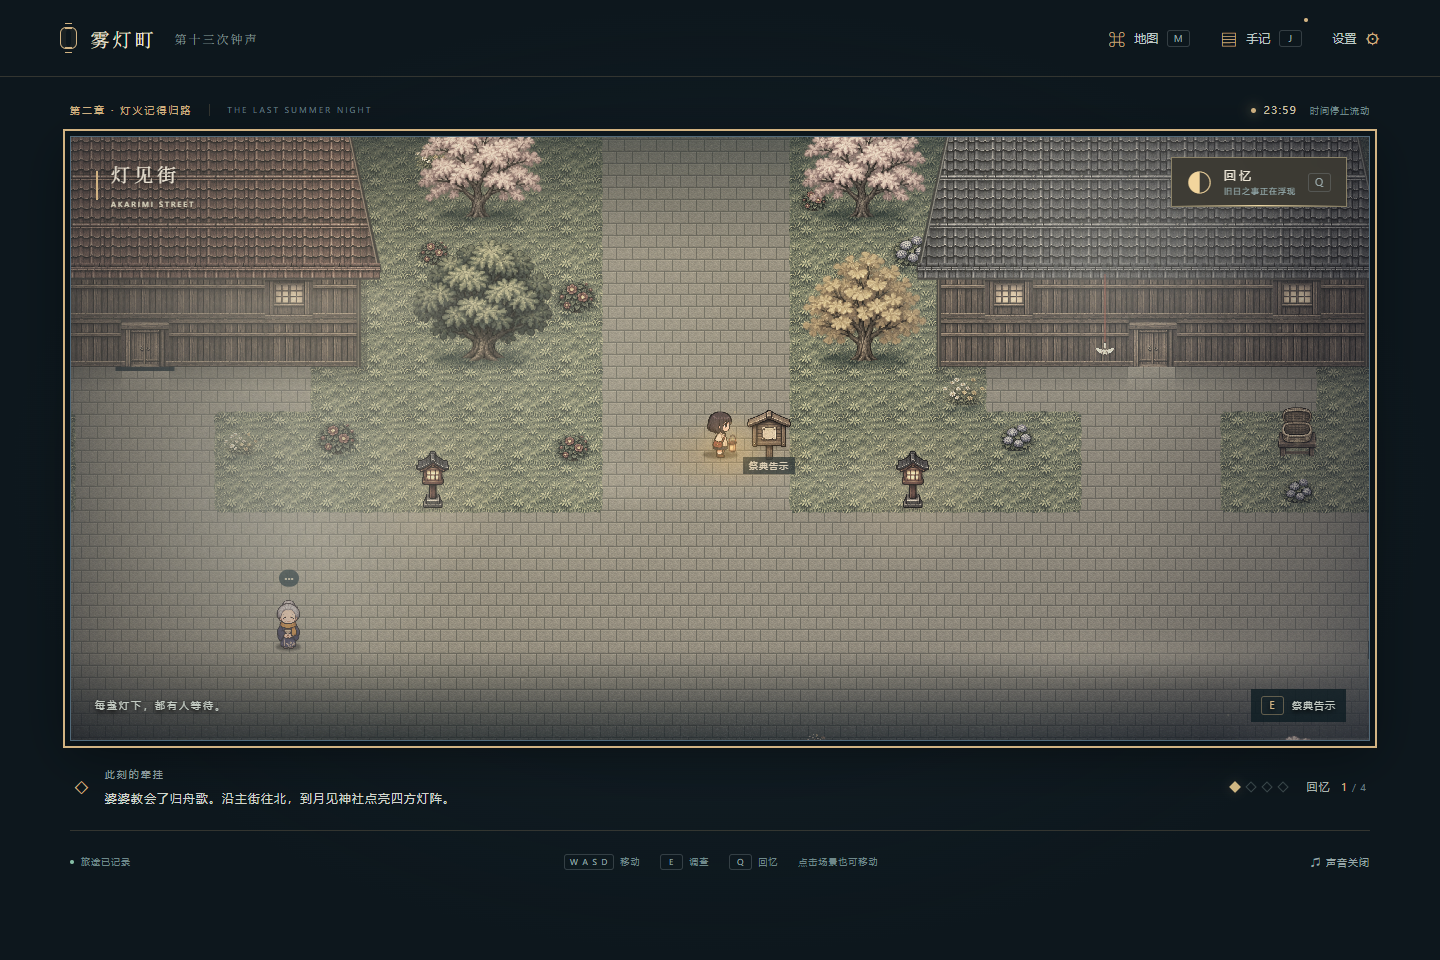
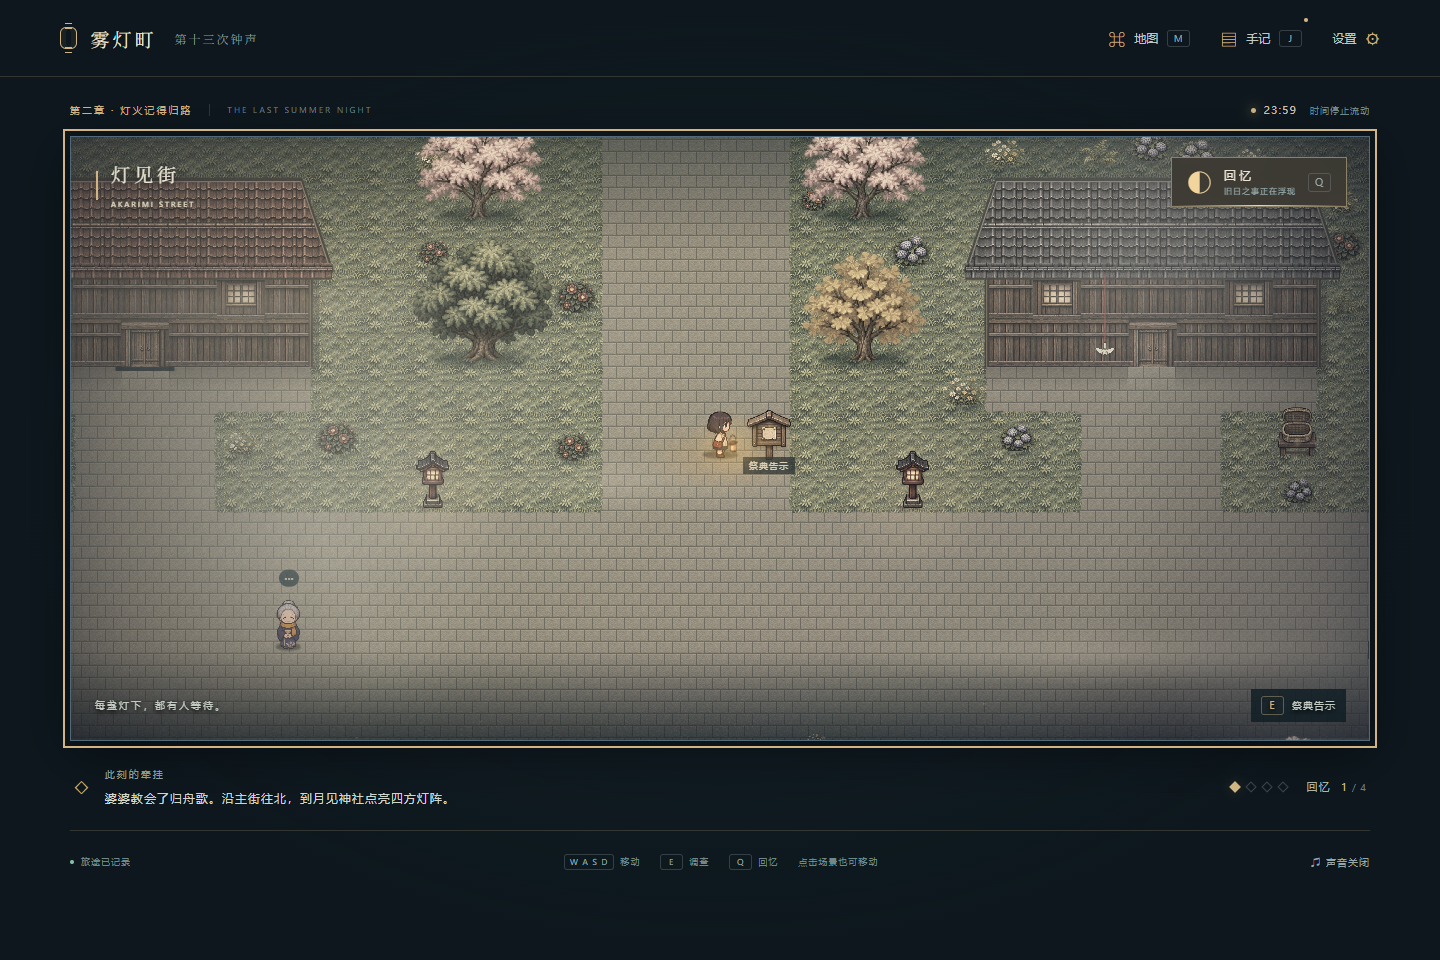
Make compact interiors with practical furniture orientations and wall lighting

Changed region(s): [[0.625, 0.125, 0.9375, 0.4062], [0.0312, 0.125, 0.2812, 0.4062], [0.8438, 0.1562, 0.9688, 0.375]]

diff --git a/maps.js b/maps.js
@@ -5,7 +5,7 @@
   else root.KiriMaps = value;
 })(globalThis, function () {
   'use strict';
-  const LAYOUT_VERSION=3;
+  const LAYOUT_VERSION=5;
   const maps = {};
   function create(id, w, h, floor, spawn) {
     const map = { id, w, h, floor, spawn, tiles: Array(w * h).fill(floor), solids: Array(w * h).fill(floor === 7 || floor === 15), props: [], lights: [], buildings: [], gates: [], platformEdges: [],tatami:[] };
@@ -28,7 +28,7 @@
   m.anchors={ren:[20,10],timetable:[11,8],photo:[4,9],'station-lock':[23,13],'to-town':[23,19],'station-door':[6,7],toolbox:[28,10],'waiting-bench':[4,9]};
   m.rect(11,3,21,3,11,true);m.rect(12,5,20,1,47,true);
   m.rect(2,7,29,6,2);m.rect(12,6,19,1,2);m.platformEdges.push({x:12,y:6,width:19});
-  m.house(2,3,9,5,19,'station-office');m.put(11,8,43,true);
+  m.house(3,4,7,4,19,'station-office');m.put(11,8,43,true);
   m.prop('photo-bench',0,4,9,2.7,[[-1,0],[0,0],[1,0]]);
   m.prop('rail-buffer',3,11,5,1.3,[[0,0]]);Object.assign(m.props.at(-1),{atlas:'station'});
   [[12,8],[27,8],[21,16],[25,16]].forEach(([x,y])=>m.put(x,y,40,true));m.put(20,10,2,true);
@@ -39,11 +39,11 @@
   m.prop('maintenance-chest',1,28,10,1.7,[[0,0]]);Object.assign(m.props.at(-1),{atlas:'exploration'});
   m.areas={track:{x:12,y:5,width:20,height:1},platform:{x:2,y:7,width:29,height:6},exitPath:{x:22,y:14,width:3,height:6}};
   m = create('town', 36, 26, 0, [5, 14]); m.border(32);
-  m.rect(2, 12, 32, 5, 2); m.rect(17, 2, 4, 22, 2); m.house(3, 4, 9, 5, 18,'town-west-house');m.house(24,4,9,5,19,'town-east-house');
+  m.rect(2, 12, 32, 5, 2); m.rect(17, 2, 4, 22, 2); m.house(4,5,7,4,18,'town-west-house');m.house(25,5,7,4,19,'town-east-house');
   m.rect(4,9,7,1,2);m.rect(6,9,3,3,2);m.rect(25,9,7,1,2);m.rect(27,9,3,3,2);
   const craneHouse=m.buildings.find(b=>b.id==='town-east-house');
-  m.anchors={nagi:[10,14],notice:[20,10],crane:[craneHouse.x+3,craneHouse.frontY-1],'to-station':[2,14],'to-shrine':[18,3],'to-archive':[33,14],'to-river':[19,23],'workshop-door':[7,8],well:[15,20],basket:[31,10]};
-  m.house(4, 19, 9, 5); m.house(25, 20, 8, 4, 18);
+  m.anchors={nagi:[10,14],notice:[20,10],crane:[craneHouse.door.x-1,craneHouse.frontY-1],'to-station':[2,14],'to-shrine':[18,3],'to-archive':[33,14],'to-river':[19,23],'workshop-door':[7,8],well:[15,20],basket:[31,10]};
+  m.house(5,20,7,4);m.house(26,20,6,4,18);
   [[3, 2], [14, 5], [22, 5], [2, 21], [31, 18], [22, 22], [15, 19]].forEach(([x, y]) => m.put(x, y, 33, true));
   [[13, 11], [23, 11], [16, 18], [21, 18]].forEach(([x, y]) => m.put(x, y, 40, true));
   m.put(20, 10, 43, true); m.put(10, 14, 2, true); m.rect(34, 3, 1, 21, 6, true);
@@ -73,22 +73,40 @@
   m.rect(1, 9, 34, 4, 2); m.rect(1, 8, 34, 1, 56, true); m.rect(1, 13, 34, 1, 56, true);
   m.rect(10, 5, 3, 4, 61); m.put(11, 5, 45, true); m.put(26, 11, 2, true);
   [4, 16, 28, 33].forEach(x => { m.put(x, 8, 40, true); m.put(x, 13, 40, true); });
-  // Interiors are real rooms with their own collision and return door, not dialogue panels.
-  m=create('station-office',18,14,4,[9,10]);m.border(15);m.rect(1,1,16,2,17,true);m.rect(1,12,16,1,17,true);m.put(9,12,31);
-  m.anchors={'old-lantern':[4,5],'duty-log':[12,5],parcel:[13,9],'lighting-table':[5,9],'office-window':[9,2],'office-exit':[9,12]};
-  m.put(3,2,29,true);m.put(9,2,29,true);m.put(14,2,29,true);
-  for(const [id,sprite,x,y,size,clearedBy] of [['lamp-cabinet',0,4,5,2.4,'lampFound'],['duty-desk',6,12,5,2.6,null],['parcel-shelf',5,13,9,1.9,'parcelTaken'],['lighting-desk',7,5,9,2.1,null]]){
+  // Doors lead to compact, furnished working rooms with a clear central aisle.
+  const furnish=(id,sprite,x,y,size,footprint=[],extra={})=>{m.prop(id,sprite,x,y,size,footprint);Object.assign(m.props.at(-1),{atlas:'interior',...extra});};
+  const compact=(id,sprite,x,y,size,footprint=[],extra={})=>furnish(id,sprite,x,y,size,footprint,{...extra,atlas:'compact'});
+  const wallLight=(id,x)=>{furnish(id,7,x,2,.95,[],{mount:'back-wall'});m.lights.push({x,y:2});};
+  m=create('station-office',14,11,4,[7,8]);m.border(15);m.rect(1,1,12,2,17,true);m.rect(1,9,12,1,17,true);m.put(7,9,31);
+  m.anchors={'old-lantern':[2,5],'duty-log':[4,4],parcel:[11,7],'lighting-table':[2,7],'office-window':[10,2],'office-exit':[7,9]};
+  m.areas={staff:{x:1,y:3,width:7,height:3},waiting:{x:9,y:3,width:4,height:4},luggage:{x:10,y:7,width:3,height:2},entrance:{x:6,y:7,width:3,height:2}};
+  m.put(3,2,29,true);m.put(10,2,29,true);
+  for(const [id,sprite,x,y,size,clearedBy] of [['lamp-cabinet',0,2,5,2.0,'lampFound'],['duty-desk',6,4,4,2.1,null],['parcel-shelf',5,11,7,1.6,'parcelTaken']]){
     m.prop(id,sprite,x,y,size,[[-1,0],[0,0],[1,0]]);Object.assign(m.props.at(-1),{atlas:'exploration',clearedBy});
   }
-  m.put(2,4,40,true);m.put(15,4,40,true);
-  m=create('town-workshop',18,14,4,[9,10]);m.border(15);m.rect(1,1,16,2,17,true);m.rect(1,12,16,1,17,true);m.put(9,12,31);
-  m.anchors={workbench:[5,5],'paste-table':[13,5],'workshop-record':[5,9],'workshop-exit':[9,12]};
-  m.put(3,2,29,true);m.put(14,2,29,true);
-  m.tatami.push({x:3,y:5.8,width:2,height:4},{x:5,y:5.8,width:2,height:4});
-  for(const [id,sprite,x,y,size,clearedBy] of [['repair-bench',3,5,5,2.5,'helpedNagi'],['paste-bench',7,13,5,2.3,null],['pattern-desk',6,5,9,2.3,null]]){
-    m.prop(id,sprite,x,y,size,[[-1,0],[0,0],[1,0]]);Object.assign(m.props.at(-1),{atlas:'exploration',clearedBy});
-  }
-  m.put(2,4,40,true);m.put(15,4,40,true);
+  furnish('lighting-desk',10,2,7,1.8,[[-1,0],[0,0],[1,0]]);
+  compact('ticket-counter',7,6,5,2.6,[[-1,0],[0,0],[1,0],[1,-1]]);
+  furnish('waiting-bench-north',1,10,4,2.5,[[-1,0],[0,0],[1,0]]);
+  compact('waiting-bench-east',0,12,6,2.5,[[0,0],[0,-1]],{facing:'west'});
+  furnish('ticket-cubby',2,2,3,1.6,[[0,0]]);
+  furnish('traveller-luggage',3,9,6,1.1,[[0,0]]);
+  m.prop('station-wall-clock',6,7,2,.9);Object.assign(m.props.at(-1),{atlas:'world',mount:'back-wall'});
+  wallLight('office-wall-lamp-west',1);wallLight('office-wall-lamp-east',12);
+  m=create('town-workshop',12,11,4,[6,8]);m.border(15);m.rect(1,1,10,2,17,true);m.rect(1,9,10,1,17,true);m.put(6,9,31);
+  m.anchors={workbench:[3,5],'paste-table':[8,5],'workshop-record':[3,8],'workshop-exit':[6,9]};
+  m.areas={making:{x:2,y:4,width:3,height:3},wetWork:{x:7,y:4,width:2,height:2},storage:{x:8,y:6,width:3,height:3},entrance:{x:5,y:7,width:2,height:2}};
+  m.put(5,2,29,true);
+  m.tatami.push({x:1.6,y:4.4,width:1.6,height:3.2},{x:3.2,y:4.4,width:1.6,height:3.2});
+  compact('repair-bench',2,3,5,1.7,[[0,0],[-1,0],[0,-1],[-1,-1]],{completedFlag:'helpedNagi',completedSprite:3,shape:'square'});
+  compact('paste-bench',4,8,5,1.6,[[0,0],[-1,0]],{shape:'square'});
+  compact('pattern-desk',5,3,8,1.5,[[0,0]],{shape:'square'});
+  furnish('paper-supply-shelf',4,3,3,2.0,[[-1,0],[0,0],[1,0]]);
+  furnish('lantern-drying-rack',5,8,3,2.3,[[-1,0],[0,0],[1,0]]);
+  furnish('work-stool',6,4,6,.7,[[0,0]]);
+  furnish('customer-stool',6,4,8,.7,[[0,0]]);
+  furnish('paper-stock-basket',8,8,7,1.0,[[0,0]]);
+  compact('side-paper-shelf',6,10,7,1.8,[[0,0],[0,-1]],{facing:'west'});
+  wallLight('workshop-wall-lamp-west',1);wallLight('workshop-wall-lamp-east',10);
   // Furniture is a transparent layer over the actual floor, never a baked floor tile.
   const detached = {40:[0,1.3],41:[7,1.35],43:[1,1.2],45:[2,1.25],46:[3,1.2],48:[4,1.5],49:[5,1.5],53:[6,1.25]};
   Object.values(maps).forEach(map=>{

diff --git a/world.js b/world.js
@@ -10,6 +10,8 @@
   const craneImage=new Image();craneImage.src='assets/hanging-crane.png';
   const explorationImage=new Image();explorationImage.src='assets/exploration-props.png';
   const explorationCleared=new Image();explorationCleared.src='assets/exploration-props-cleared.png';
+  const interiorFurnishing=new Image();interiorFurnishing.src='assets/interior-furnishings.png';
+  const compactFurnishing=new Image();compactFurnishing.src='assets/compact-furniture.png';
   const woodGrain=new Image();woodGrain.src='assets/interior-wood-grain.png';
   const tatamiImage=new Image();tatamiImage.src='assets/tatami-mat.png';let tatamiBounds=null;
   const view = { tile: 48, x: 0, y: 0, width: 1, height: 1, zone: 'station' };
@@ -115,9 +117,9 @@
   }
   function propFrame(prop,solved=[],progress={}){
     const cleared=(prop.clearedBy&&progress.flags?.[prop.clearedBy])||(prop.onlyItemInEcho&&progress.phase!=='echo');
-    const source=prop.atlas==='exploration'?(cleared?explorationCleared:explorationImage):prop.atlas==='world'?worldProps:prop.atlas==='station'?stationKit:prop.atlas==='crane'?craneImage:mountedImage;
-    const columns=['world','exploration'].includes(prop.atlas)?4:prop.atlas==='crane'?1:2,rows=prop.atlas==='crane'?1:2;
-    const sprite=prop.gate&&solved.includes(prop.gate)?prop.openSprite:prop.sprite;
+    const source=prop.atlas==='compact'?compactFurnishing:prop.atlas==='interior'?interiorFurnishing:prop.atlas==='exploration'?(cleared?explorationCleared:explorationImage):prop.atlas==='world'?worldProps:prop.atlas==='station'?stationKit:prop.atlas==='crane'?craneImage:mountedImage;
+    const columns=['world','exploration','interior','compact'].includes(prop.atlas)?4:prop.atlas==='crane'?1:2,rows=prop.atlas==='interior'?3:prop.atlas==='crane'?1:2;
+    const sprite=prop.completedFlag&&progress.flags?.[prop.completedFlag]?prop.completedSprite:prop.gate&&solved.includes(prop.gate)?prop.openSprite:prop.sprite;
     return {source,columns,rows,sprite};
   }
   function drawPlatform(pen,map,size,originX=0,originY=0){
@@ -268,5 +270,5 @@
     map.props.forEach(p=>{const pose=root.KiriMaps.attachmentPose(zone,p);layers.push({z:pose?depth(pose.building.frontY-.92,1):depth(p.y,-1),draw:()=>{const {source,columns,rows,sprite}=propFrame(p,solved,progress);if(!source.complete||!source.naturalWidth)return;const sw=source.naturalWidth/columns,sh=source.naturalHeight/rows,extent=p.size*size,x=pose?pose.x:p.x+.5,y=pose?pose.bottomY:p.y+.92;pen.drawImage(source,sprite%columns*sw+4,Math.floor(sprite/columns)*sh+4,sw-8,sh-8,x*size-extent*.5,y*size-extent*.985,extent,extent);}});});
     layers.sort((a,b)=>a.z-b.z).forEach(layer=>layer.draw());
   }
-  root.KiriRenderer = { view, resize, draw, project, unproject, thumbnail, depth, assetsReady:()=>[image,foliage,mountedImage,worldProps,stoneGrain,stationKit,craneImage,explorationImage,explorationCleared,woodGrain,tatamiImage].every(i=>i.complete&&i.naturalWidth>0)&&!!root.KiriLighting?.assetsReady() };
+  root.KiriRenderer = { view, resize, draw, project, unproject, thumbnail, depth, assetsReady:()=>[image,foliage,mountedImage,worldProps,stoneGrain,stationKit,craneImage,explorationImage,explorationCleared,interiorFurnishing,compactFurnishing,woodGrain,tatamiImage].every(i=>i.complete&&i.naturalWidth>0)&&!!root.KiriLighting?.assetsReady() };
 })(globalThis);

diff --git a/exploration.js b/exploration.js
@@ -29,7 +29,7 @@
     const note=text=>talk([{text}]);
     const light=()=>{
       if(state.flags.lantern)return note('引灯已经亮着。灯芯燃得很稳，不必再次消耗火种。');
-      if(!state.flags.lampFound)return note('整灯台上留着刷子和空灯油壶。先看看西侧矮柜，那盏旧引灯还没有被取走。');
+      if(!state.flags.lampFound)return note('整灯台放着油壶和备用灯芯，火柴槽里只剩用过的旧杆。先看看西侧矮柜，那盏旧引灯还没有被取走。');
       if(!has('dryMatches'))return note(has('lockerKey')?'灯芯是干的，只差火种。站台东端的维修箱里应当还有防潮火柴。':'你把熄灭的引灯放在台边。值班簿提到防潮火柴；去问问站台上的莲，他保管着维修箱钥匙。');
       talk([{text:'你展开油纸，擦亮一根火柴，用掌心护住微小的火。引灯的纸面渐渐透出暖光。'},{who:'mio',text:'灯芯亮起来的一刻，窗外的旧字像重新有了墨迹。\n（按 Q 切换回忆，试着调查时刻表。）'}],apply('light-lantern','防潮火柴已使用 · 引灯点亮'));return;
     };

diff --git a/core.js b/core.js
@@ -133,7 +133,7 @@
     state.zone = canVisit(state, raw.zone) ? raw.zone : 'station';
     state.phase = raw.phase === 'echo' && state.flags.lantern ? 'echo' : 'present';
     const spawn=Maps.maps[state.zone].spawn;state.player={x:spawn[0],y:spawn[1],facing:0};
-    const sameLayout=raw.layoutVersion===Maps.LAYOUT_VERSION||!['station','town'].includes(state.zone);
+    const sameLayout=raw.layoutVersion===Maps.LAYOUT_VERSION||!['station','town','station-office','town-workshop'].includes(state.zone);
     if (raw.player && state.zone === raw.zone && sameLayout) {
       const clamp = (n, low, high, fallback) => Number.isFinite(n) ? Math.max(low, Math.min(high, n)) : fallback;
       const map = Maps.maps[state.zone];

diff --git a/docs/INTERIOR-ART.md b/docs/INTERIOR-ART.md
@@ -1,0 +1,42 @@
+# 生活化室内新增家具素材
+
+均由内置 image_gen 生成，原图透明通道保留，文件保存于 E:/jrpg/assets/。
+
+## interior-furnishings.png（4 列 × 3 行）
+
+```
+Use case: stylized-concept. Asset type: a professional transparent furniture sprite atlas for existing Japanese 2D top-down pixel RPG interiors. Reference image is a STYLE and palette reference, not an edit target. EXACT 4 columns by 3 rows, 12 equal cells. One complete isolated usable furniture sprite per cell. Foot/base of every sprite near bottom 94% of its cell. Genuine transparent alpha background; no floor tiles, no backdrop, no labels, no text, no border grid. Dark muted walnut, aged ivory paper, restrained moss-grey, antique brass, same hand-painted crisp pixel clusters as reference. Orthographic front/top-down 3/4 RPG view, NOT diamond isometric. NO people.
+Row1 left to right:
+0 a long low wooden railway ticket counter with a raised customer ledge, small brass service bell and a tidy pile of blank tickets, built-in drawers facing front;
+1 a sturdy three-seat wooden indoor waiting bench with a backrest and simple armrests, plain empty seat, absolutely NO photograph;
+2 a tall narrow postal/ticket sorting cabinet with many cubbyholes holding rolled blank tickets and folded envelopes;
+3 a modest group of two old traveller suitcases and a cloth travel bundle, believable lived-in luggage, not treasure chests.
+Row2 left to right:
+4 a tall artisan supply shelf stocked with neatly rolled washi paper, bundles of thin bamboo strips, a couple of thread spools and a jar, keep a coherent workroom shelf;
+5 a wooden horizontal drying rack with THREE small finished ivory paper lanterns hanging from hooks, all unlit, complete rack with two support legs;
+6 ONE low round wooden craft stool with a worn cushion, no other items;
+7 ONE small indoor oil wall sconce attached to a narrow vertical wooden/brass backing plate, tiny warm amber flame behind simple glass, compact indoor scale, no lamp post, no stone pedestal, no garden roof, no external glow or shadow.
+Row3 left to right:
+8 a low storage basket of bundled bamboo strips and two tied paper rolls, tidy materials rather than random clutter;
+9 a low traditional writing/tea table with an OPEN blank pattern notebook, small ceramic tea cup and folded cloth, suitable for receiving a customer in a lantern shop;
+10 a compact wooden lamp-tending bench with a small metal oil can, spare cotton wicks, an extinguished match tray and a folded cleaning cloth, no rice paste bowl, no large lantern;
+11 a modest folding wooden/bamboo privacy screen with three plain narrow ivory paper panels, complete floor-standing screen with small feet.
+Keep furniture structurally believable with legs and attached objects, no floating separate items. Maintain consistent proportions across cells, all silhouettes fully inside their cells. Pixel-art production assets, calm readable detail, no glossy 3D, no readable writing or numbers.
+```
+
+## compact-furniture.png（4 列 × 2 行）
+
+```
+Use case: stylized-concept. Asset type: exactly 4 columns by 2 rows of transparent pixel-art furniture sprites for compact 2D Japanese RPG rooms. Reference image is style/palette reference only. Match muted walnut, aged cream paper, dark outlines, orthographic overhead 3/4 perspective, crisp pixel clusters. All 8 equal-sized cells have genuine transparent alpha around each furniture item; feet near bottom 94% of each cell. No ground, no floor tile, no labels, no letters, no UI border grid, no people.
+Row1 left to right:
+0 a three-seat wooden waiting bench FACING WEST (left): its LONG AXIS runs VERTICALLY up/down in the sprite; high narrow backrest along RIGHT side, open seat along LEFT side. Clear top view of seat and armrests. Draw a genuinely side-oriented bench, not a rotated front-view bitmap.
+1 a matching bench FACING EAST (right): long axis VERTICAL, backrest on LEFT, seat opens RIGHT.
+2 a small SQUARE low lantern-making worktable, four equal sides on its visible square top plane, with one partly torn paper lantern frame, a short red cord, a few bamboo ribs. Compact square footprint, not a long rectangular display table.
+3 the EXACT SAME square worktable as previous cell with the paper lantern now REPAIRED and intact ivory paper, same perspective, palette, geometry and scale; all other objects unchanged.
+Row2 left to right:
+4 a compact SQUARE low wet-work table with one rice paste bowl, a brush and a small clay water jug arranged diagonally across the square top. Small practical one-person workspace.
+5 a compact SQUARE low tea/notes table with an open blank notebook, a small cup and folded cloth; visibly square top with equal-length sides in world space, not a long rectangular desk.
+6 a narrow artisan paper shelf FACING WEST: RIGHT side is its tall closed back against a wall, shelves and rolled paper open toward LEFT, long axis runs VERTICALLY in the sprite. True side-view top-down 3/4 form, not a flipped front cabinet.
+7 one coherent modest L-shaped wooden railway service counter, short return on its RIGHT end going away from the viewer; small brass bell and stack of blank tickets on top, drawers in front, small station scale.
+Perspective and scale consistent across sheet. Square tables use a near-overhead view so their compact plan is apparent. Benches and shelf must clearly read as SIDE-ORIENTED with vertical long axes, not another row of front-facing furniture. No text, no stone lamps, no scenery, no floors, no cast shadow blobs.
+```

diff --git a/docs/INTERIOR-LAYOUT.md b/docs/INTERIOR-LAYOUT.md
@@ -1,0 +1,21 @@
+# 站房与制灯铺的生活化布局
+
+站房由原先 18 × 14 格收紧到 14 × 11 格，制灯铺收紧到 12 × 11 格。车站外墙和街道前排民居由 9 × 5 格调整为 7 × 4 格；入口、门前步道和纸鹤仍按建筑结构定位。
+
+## 站房
+
+右侧长椅朝向候车空间，使用一张正向椅和一张朝西的侧向椅。入口到柜台保持主通道；柜台带短侧边，背后是值班桌和票件格柜。左侧沿墙放引灯柜与整灯台，另一侧靠候车区放包裹、行李。墙钟与室内油灯固定在后墙，移除庭院灯柱。
+
+## 制灯铺
+
+入口旁的方形矮桌用于看样本和接待，旁边有低凳。内侧榻榻米工作角放方形修灯台，湿作台位于另一侧；纸料架、晾灯架和朝西开口的侧柜形成储料区域。走道不穿过修灯台与湿作台的工作面。
+
+## 状态与验证
+
+工作台由破纸灯切换到修好状态，柜中引灯、包裹和红线仍保留收取后的反馈。碰撞与调查位置跟随家具重新配置。旧室内存档回到新门口，保留道具、线索、回忆和章节进度。核心检查覆盖所有调查点可达性及旧室内存档恢复，浏览器复查探索流程与完整故事。
+
+## 新素材
+
+- `assets/interior-furnishings.png`：内置 image_gen 生成，4 列 × 3 行，含长椅、柜架、晾灯架、墙灯与整灯台。
+- `assets/compact-furniture.png`：内置 image_gen 生成，4 列 × 2 行，含侧向长椅、方形小桌、侧柜与带侧边的柜台。朝向由素材形体表达，没有把正面贴图平面旋转来代替。
+- 完整提示词见 [开场素材记录](OPENING-ART.md)。

diff --git a/README.md b/README.md
@@ -59,6 +59,8 @@ npm start
 - **迟到的包裹**：在站房接下旧包裹，交给灯见街的凪婆婆，获得送灯路线图与姐姐的补充往事。
 - **道具与反馈**：材料会实际收集和消耗，手记显示随身物品与未完成请求。取走灯、红线、包裹后家具会变空，修好的灯会留在铺中。旧存档的已点灯、已修灯和结局进度保留。
 
+两处室内按实际用途布置并收紧尺寸：站房包含候车长椅、柜台、票件柜、值班桌和寄物角；制灯铺包含接待矮桌、方形工作台、晾灯架和储料柜。长椅、柜架有不同朝向，照明采用后墙油灯。车站与街道房屋外观同步缩小，门前道路与纸鹤挂点保持对应。详见 [室内布局记录](docs/INTERIOR-LAYOUT.md)。
+
 - **六处区域、两处室内**：雾灯车站、灯见街、月见神社、旧校书库、十三刻钟楼、渡灯桥。
 - **真正的地块地图**：使用 64 格 Image-gen 地块图集搭建，地图从 24 × 22 到 36 × 26 格；道路、建筑、书架、水面均有明确的通行判定。
 - **经典移动**：四方向逐格移动，镜头跟随；点击物件时会寻找绕开障碍的路线，走近到相邻格再调查。

diff --git a/docs/QA.md b/docs/QA.md
@@ -4,7 +4,7 @@
 
 ## 核心规则
 
-`npm test`：30 项检查通过，其中 22 项覆盖核心规则、物件、布局、道具条件及 NPC 分阶段帮助，8 项覆盖移动和转向。
+`npm test`：31 项检查通过，其中 23 项覆盖核心规则、物件、布局、道具条件、NPC 分阶段帮助及旧室内存档迁移，8 项覆盖移动和转向。
 
 验证了章节先决条件、禁止跳关、错误答案不改变进度、四种机关答案、联动齿轮可解性、回忆重复调查、四种结局条件、存档序列化、损坏存档恢复，以及格子地图中的墙体、书架、水面碰撞。逐一检查了六处区域与两处室内的每个人物、机关、回忆、线索与出口，确保均存在从出生点出发、不穿过障碍的相邻格路径。
 

diff --git a/docs/LAYOUT-UPDATE.md b/docs/LAYOUT-UPDATE.md
@@ -1,5 +1,7 @@
 # 车站与民居布局重排
 
+最新的站房与制灯铺生活化陈设、室内外比例和家具朝向调整，见 [室内布局记录](INTERIOR-LAYOUT.md)。
+
 ## 建筑轮廓收口
 
 车站、民居与神社的屋顶改为独立于墙体的轮廓：瓦面两侧斜向展开，檐口向左右各挑出 0.4 格，并补上侧边包边、檐口厚度、墙角立柱与侧面阴影。屋顶表面与檐口继续使用原有 image_gen 图集 `assets/tileset.png`，没有引入不同色调的新贴图。地图缩略图与实景使用同一套绘制，建筑碰撞和纸鹤的依附坐标保持一致。

diff --git a/docs/OPENING-ART.md b/docs/OPENING-ART.md
@@ -1,5 +1,7 @@
 # 开场探索新增素材
 
+生活化室内新增的候车长椅、墙灯、柜架、侧向家具与方形工作台，见 [室内家具素材记录](INTERIOR-ART.md)。
+
 以下素材均由内置 image_gen 生成并保存至 E:/jrpg/assets/，没有修改生成原图的透明通道。家具按 4 列 × 2 行等分使用；完成状态按物件单独切换，榻榻米按完整席面放置，木纹用于连续长木板的表面。
 
 ## exploration-props.png
